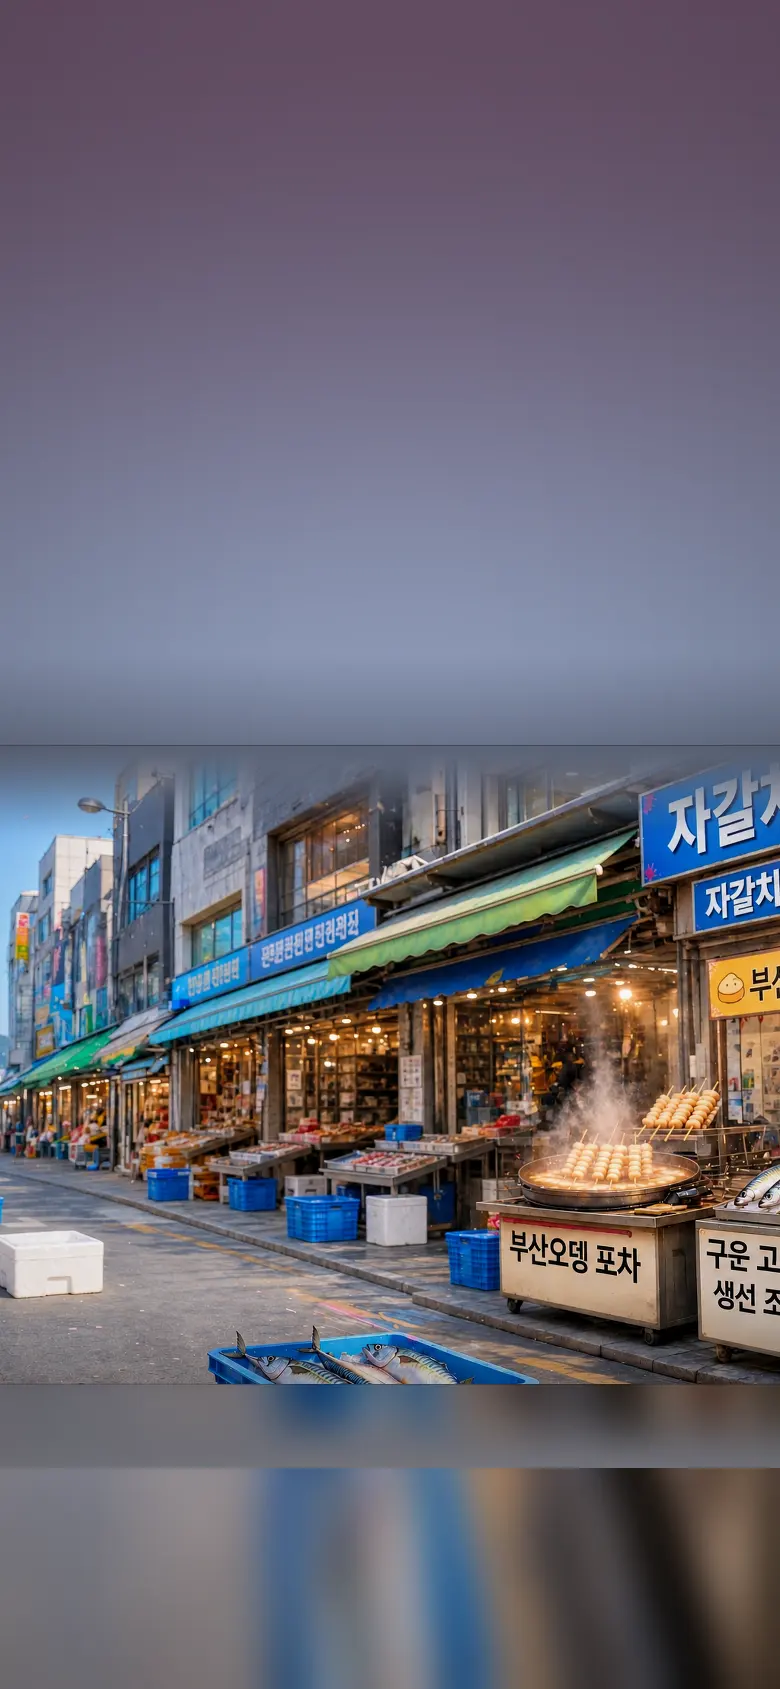
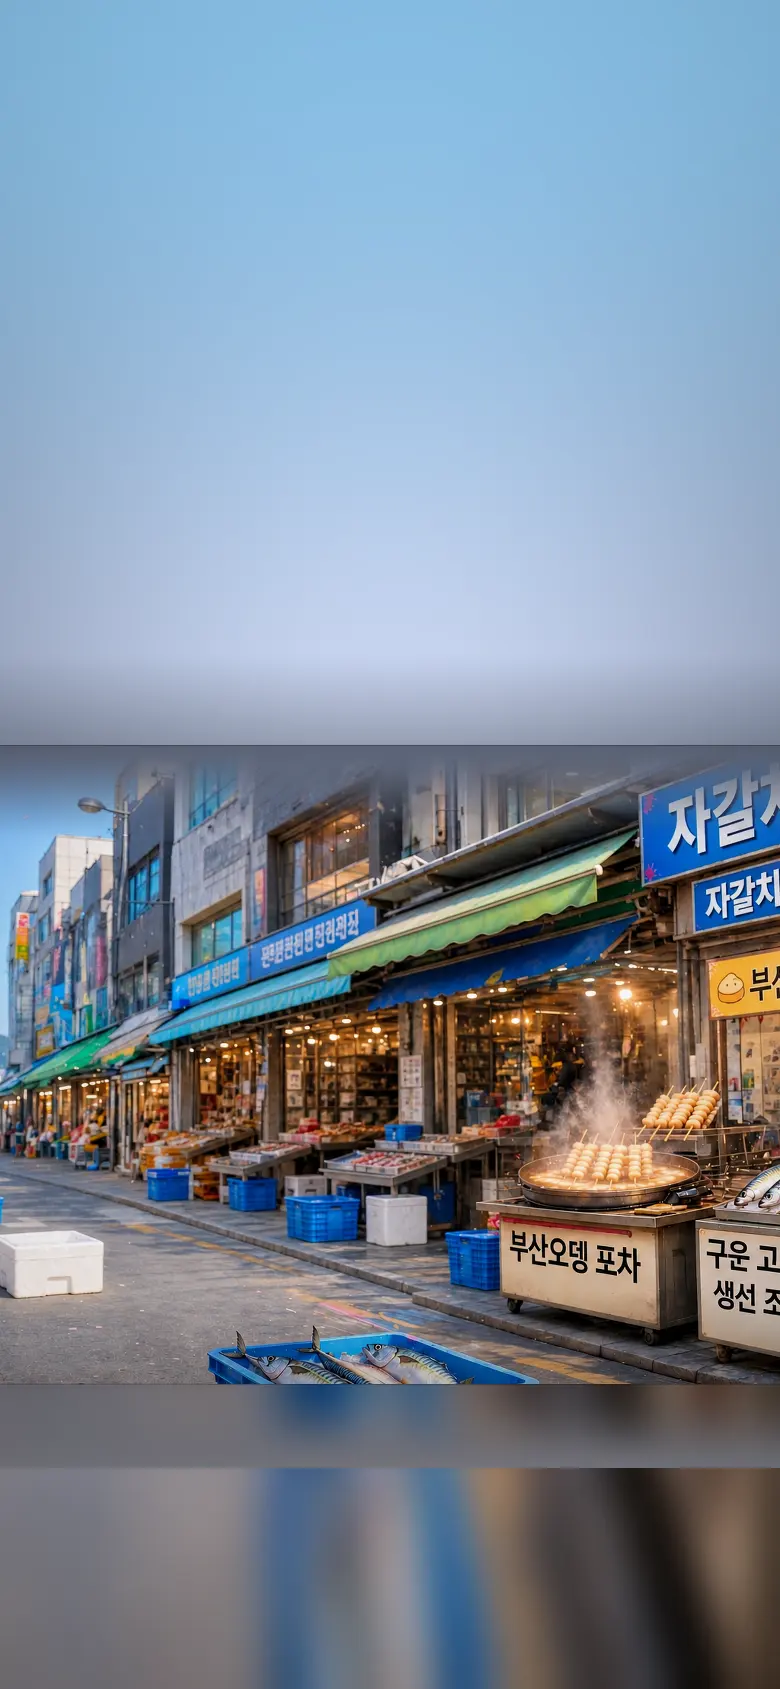
모모 런: 타이틀 배경을 START 게이트 앞 모모 일러스트로, 밝은 하늘 그라데이션, 이미지 캐시 버스팅(?v=2)·SW v31

diff --git a/momo-run/game.js b/momo-run/game.js
@@ -41,14 +41,15 @@
       ground: ['s5-4', 's5-5'], top: 's5-6', goal: 1040, foodGoal: 38, dash: '#fff0bd' }
   ];
 
+  const ASSET_V = '2';           // 이미지 교체 시 올린다 — 폰 캐시에 옛 그림이 남지 않게
   const SPRITE_SRC = {
-    run: 'assets/sprites/momo-run.webp',
-    jump: 'assets/sprites/momo-jump.webp',
-    djump: 'assets/sprites/momo-djump.webp',
-    slide: 'assets/sprites/momo-slide.webp',
-    idle: 'assets/sprites/momo-idle.webp',
-    victory: 'assets/sprites/momo-victory.webp',
-    wave: 'assets/sprites/momo-wave.webp'
+    run: 'assets/sprites/momo-run.webp?v=' + ASSET_V,
+    jump: 'assets/sprites/momo-jump.webp?v=' + ASSET_V,
+    djump: 'assets/sprites/momo-djump.webp?v=' + ASSET_V,
+    slide: 'assets/sprites/momo-slide.webp?v=' + ASSET_V,
+    idle: 'assets/sprites/momo-idle.webp?v=' + ASSET_V,
+    victory: 'assets/sprites/momo-victory.webp?v=' + ASSET_V,
+    wave: 'assets/sprites/momo-wave.webp?v=' + ASSET_V
   };
 
   /* ── 크기·물리 ──────────────────────────────────────── */
@@ -121,8 +122,8 @@
       im.src = src;
     });
   }
-  function bgSrc(st) { return 'assets/bg2/' + st.bg + '.webp'; }
-  function itemSrc(id) { return 'assets/items/' + id + '.webp'; }
+  function bgSrc(st) { return 'assets/bg2/' + st.bg + '.webp?v=' + ASSET_V; }
+  function itemSrc(id) { return 'assets/items/' + id + '.webp?v=' + ASSET_V; }
   function stageAssets(st) {
     const list = [bgSrc(st), itemSrc(st.top)];
     st.food.forEach((f) => list.push(itemSrc(f)));
@@ -428,7 +429,7 @@
       const card = document.createElement('button');
       card.type = 'button';
       card.className = 'stage-card' + (locked ? ' locked' : '');
-      card.style.backgroundImage = 'url("assets/bg2/thumb-' + st.n + '.webp")';
+      card.style.backgroundImage = 'url("assets/bg2/thumb-' + st.n + '.webp?v=' + ASSET_V + '")';
       const stars = save.stars[st.n] || 0;
       const starHtml = [1, 2, 3].map((i) => '<i class="' + (i <= stars ? 'on' : '') + '">★</i>').join('');
       card.innerHTML =

diff --git a/momo-run/styles.css b/momo-run/styles.css
@@ -301,12 +301,21 @@ html, body {
 
 /* 타이틀 */
 .screen-title {
+  align-items: start;
+  padding-top: calc(26 * var(--s) * 1px);
   background:
-    radial-gradient(70% 46% at 50% 40%, rgba(12, 7, 18, .12), rgba(10, 6, 16, .58) 72%),
-    linear-gradient(180deg, rgba(10, 6, 16, .46), rgba(10, 6, 16, .3) 40%, rgba(10, 6, 16, .72));
-  -webkit-backdrop-filter: blur(calc(1.5 * var(--s) * 1px)) saturate(1.05);
-  backdrop-filter: blur(calc(1.5 * var(--s) * 1px)) saturate(1.05);
+    linear-gradient(180deg,
+      rgba(20, 12, 32, .64) 0%,
+      rgba(20, 12, 32, .46) 26%,
+      rgba(20, 12, 32, .12) 46%,
+      rgba(14, 9, 22, .04) 62%,
+      rgba(12, 8, 18, .5) 100%),
+    url("./assets/title.webp?v=1") center top / cover no-repeat,
+    linear-gradient(180deg, #8fd0f4, #2a1b3d);
+  -webkit-backdrop-filter: none;
+  backdrop-filter: none;
 }
+.title-inner { text-shadow: 0 calc(2 * var(--s) * 1px) calc(10 * var(--s) * 1px) rgba(20, 10, 30, .45); }
 .title-inner { text-align: center; color: #fff; display: flex; flex-direction: column; align-items: center; gap: calc(7 * var(--s) * 1px); max-width: calc(330 * var(--s) * 1px); }
 .title-icon {
   width: calc(92 * var(--s) * 1px); height: calc(92 * var(--s) * 1px);

diff --git a/momo-run/index.html b/momo-run/index.html
@@ -29,7 +29,7 @@
 <link rel="icon" href="./icon-32.png" sizes="32x32" type="image/png">
 <link rel="icon" href="./icon-192.png" sizes="192x192" type="image/png">
 <link rel="apple-touch-icon" href="./apple-touch-icon.png">
-<link rel="stylesheet" href="./styles.css?v=6">
+<link rel="stylesheet" href="./styles.css?v=8">
 </head>
 <body>
 
@@ -192,6 +192,6 @@
 </div>
 
 <script src="./i18n.js?v=1"></script>
-<script src="./game.js?v=14"></script>
+<script src="./game.js?v=15"></script>
 </body>
 </html>

diff --git a/sw.js b/sw.js
@@ -1,7 +1,7 @@
 /* Ajak Studio — sw.js
    셸(HTML·CSS·JS·아이콘)을 캐시해 두고, 문서는 네트워크 우선(실패 시 캐시)으로 연다.
    번역 API 같은 외부 요청은 건드리지 않는다. */
-const VER = 'ajak-studio-v30';
+const VER = 'ajak-studio-v31';
 const SHELL = [
   './',
   './index.html',
